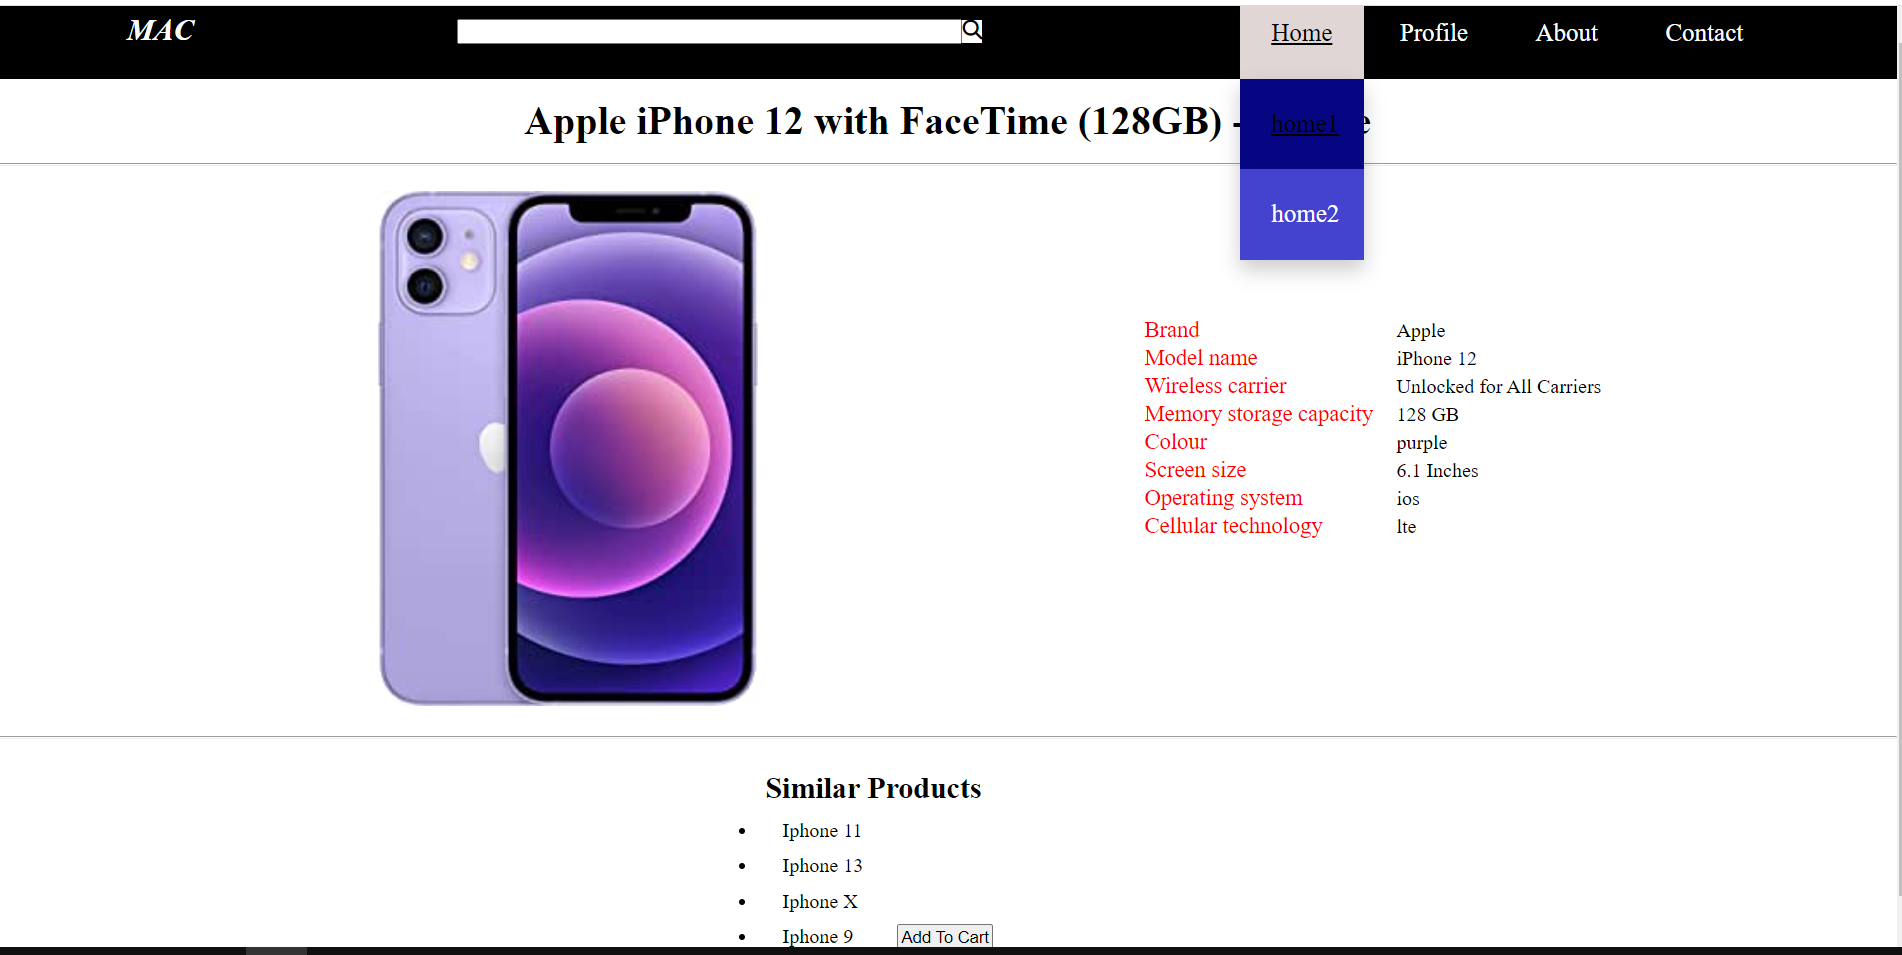
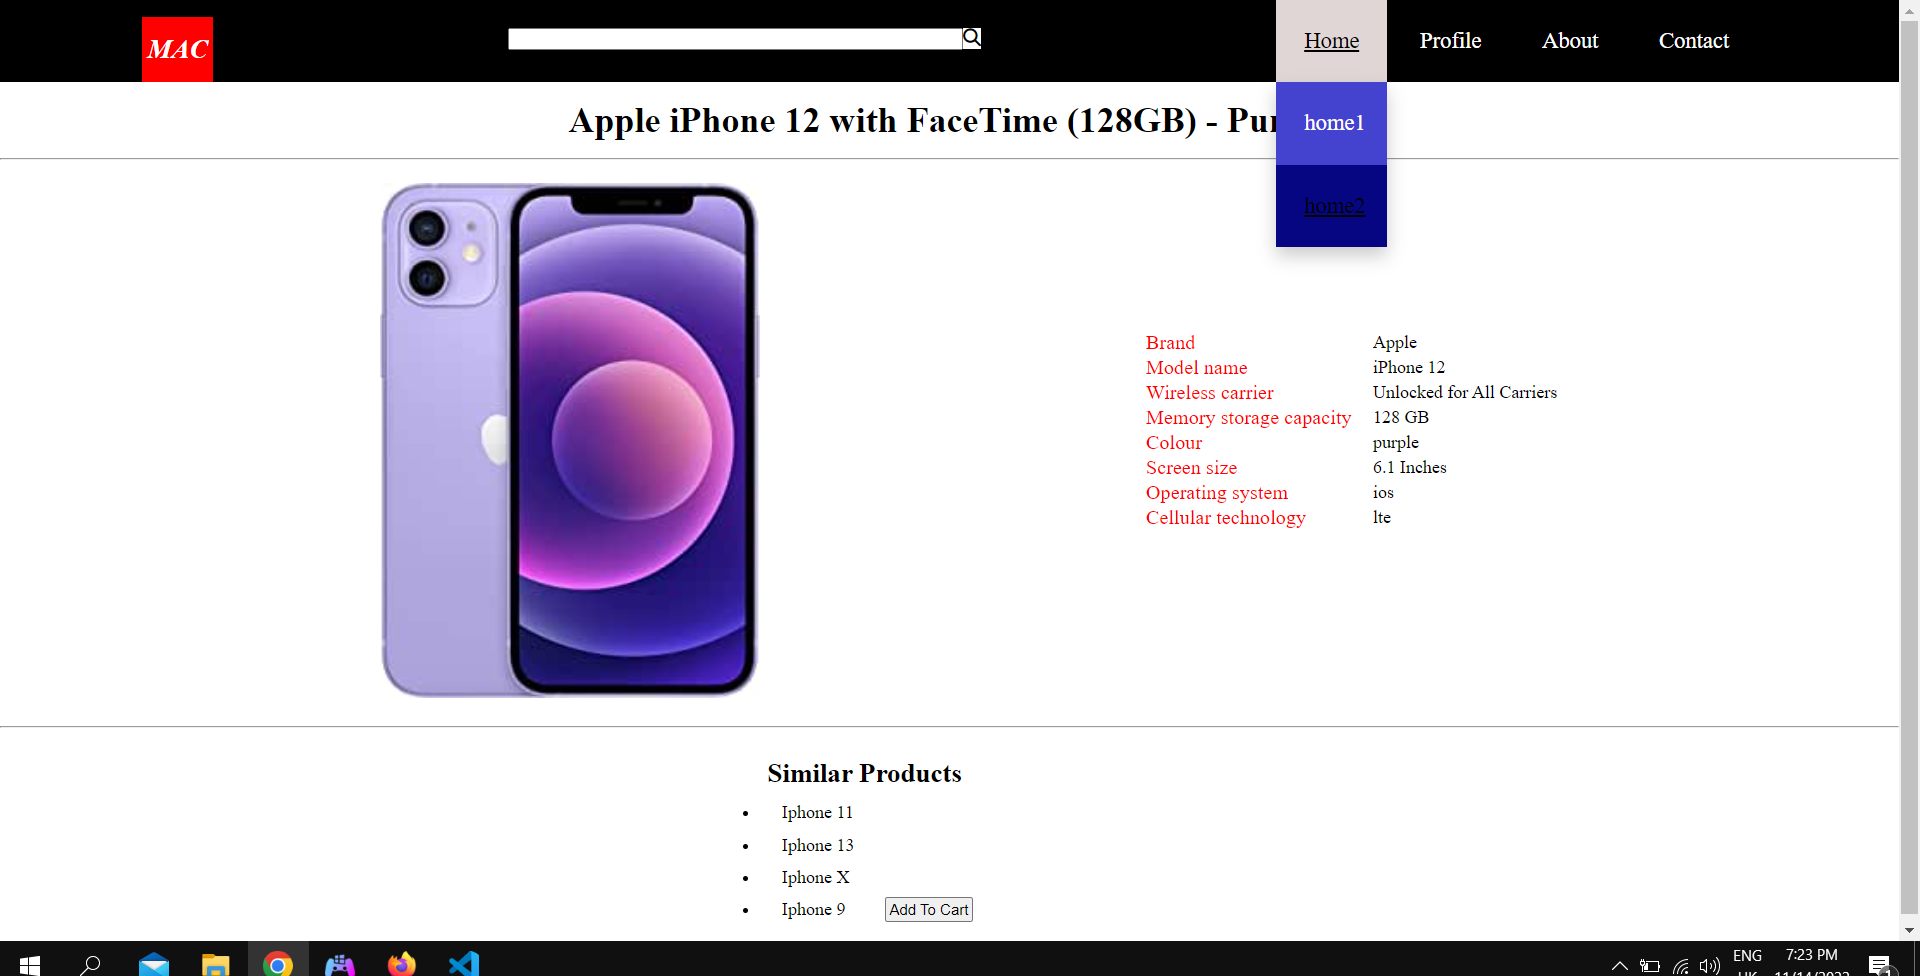
final final

diff --git a/front end task/Task 1 css/style.css b/front end task/Task 1 css/style.css
@@ -11,6 +11,13 @@ h1 {
 h2 {
   padding: 2%;
 }
+.logo{
+  background-color: red;
+  color: white;
+  font-weight: 700;
+  font-style: italic;
+  margin-top: 15px;
+}
 nav {
   background-color: black;
   gap: 10px;
@@ -19,10 +26,7 @@ nav {
   align-content: center;
 }
 nav h1{
-  color: white;
-  font-weight: 700;
-  font-style: italic;
-  margin-top: 15px;
+
 }
 nav input{
   margin-top: 25px;
